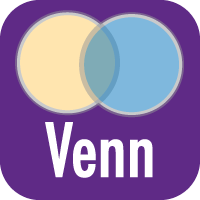
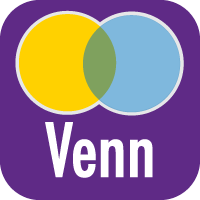
fixed bug in Venn Slice GenomeSet

Changed region(s): [[0.06, 0.03, 0.93, 0.6]]

diff --git a/lib/kb_SetUtilities/kb_SetUtilitiesImpl.py b/lib/kb_SetUtilities/kb_SetUtilitiesImpl.py
@@ -32,7 +32,7 @@ class kb_SetUtilities:
     # state. A method could easily clobber the state set by another while
     # the latter method is running.
     ######################################### noqa
-    VERSION = "1.6.0"
+    VERSION = "1.7.1"
     GIT_URL = "https://github.com/kbaseapps/kb_SetUtilities"
     GIT_COMMIT_HASH = "6993da1ac2cbab8b9001baaf6af91091aec939a1"
 

diff --git a/RELEASE_NOTES.md b/RELEASE_NOTES.md
@@ -1,9 +1,13 @@
+### Version 1.7.1
+__Changes__
+- tweaked Venn Slice to fix bug in GenomeSet and improve icon
+
 ### Version 1.7.0
 __Changes__
 - added support for FeatureSets that may include Annotated Metagenome Assembly features to
   * KButil_Slice_FeatureSets_by_Genomes
   * KButil_Build_GenomeSet_from_FeatureSet
-  * KButil_Logical_Slice_Two_FeatureSets
+  * KButil_Logical_Slice_Two_FeatureSets (aka "Venn Slice")
 
 ### Version 1.6.0
 __Changes__
